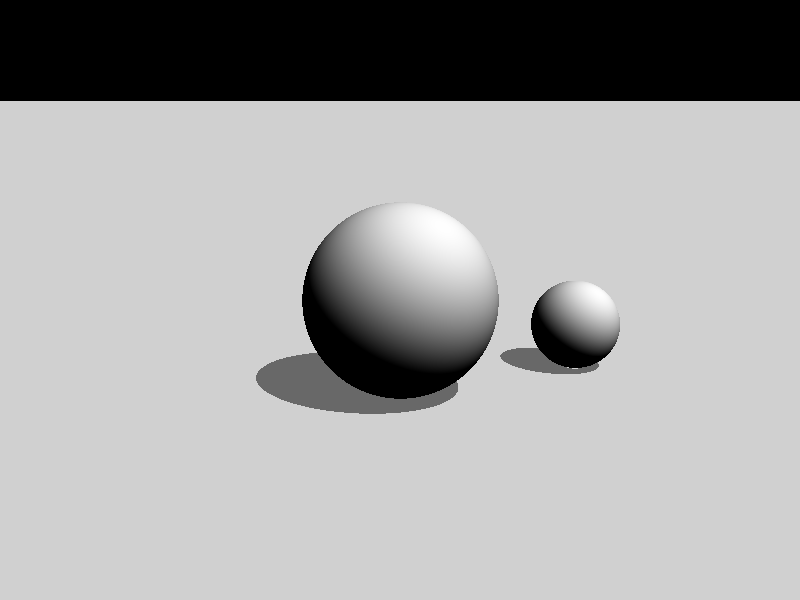
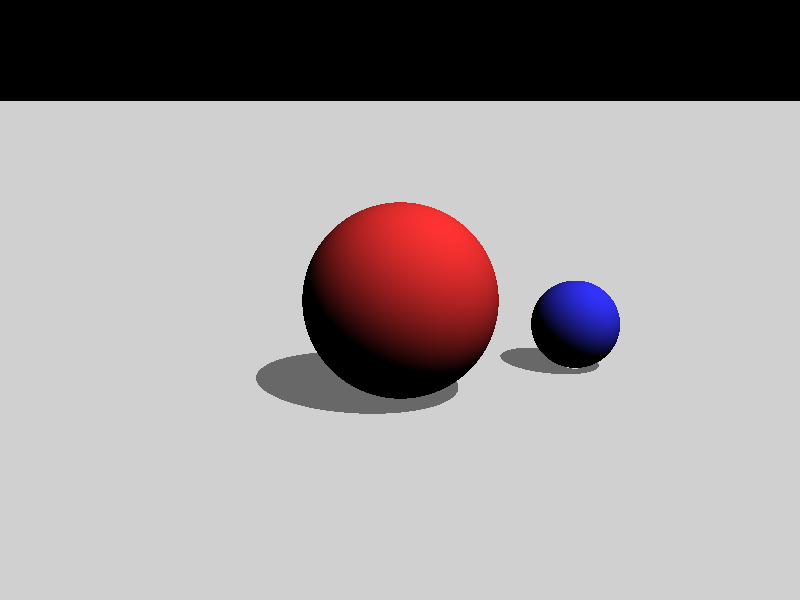
Add Material

Changed region(s): [[0.375, 0.33, 0.625, 0.63], [0.6562, 0.45, 0.7812, 0.6]]

diff --git a/src/scene.rs b/src/scene.rs
@@ -1,5 +1,6 @@
-use vector::{Vector3, Vector2};
 use consts;
+use vector::{Vector3, Vector2};
+use material::Material;
 
 #[derive(Debug)]
 pub struct Ray {
@@ -13,6 +14,7 @@ pub struct Intersection {
     pub position: Vector3,
     pub distance: f64,
     pub normal: Vector3,
+    pub material: Material,
 }
 
 impl Intersection {
@@ -22,6 +24,7 @@ impl Intersection {
             position: Vector3::zero(),
             distance: consts::INF,
             normal: Vector3::zero(),
+            material: Material::new(),
         }
     }
 }
@@ -33,6 +36,7 @@ pub trait Intersectable {
 pub struct Sphere {
     pub center: Vector3,
     pub radius: f64,
+    pub material: Material,
 }
 
 impl Intersectable for Sphere {
@@ -47,6 +51,7 @@ impl Intersectable for Sphere {
             intersection.position = ray.origin + ray.direction * t;
             intersection.distance = t;
             intersection.normal = (intersection.position - self.center).normalize();
+            intersection.material = self.material.clone();
         }
     }
 }
@@ -54,6 +59,7 @@ impl Intersectable for Sphere {
 pub struct Plane {
     pub center: Vector3,
     pub normal: Vector3,
+    pub material: Material,
 }
 
 impl Intersectable for Plane {
@@ -66,6 +72,7 @@ impl Intersectable for Plane {
             intersection.position = ray.origin + ray.direction * t;
             intersection.normal = self.normal;
             intersection.distance = t;
+            intersection.material = self.material.clone();
         }
     }
 }
@@ -155,24 +162,4 @@ impl Scene {
         }
         intersection
     }
-}
-
-#[allow(dead_code)]
-pub fn test() {
-    let ray = Ray{origin: Vector3{x: 0.0, y: 0.0, z: -3.0}, direction: Vector3{x: 0.0, y: 0.0, z: 1.0}};
-    let sphere = Sphere{center: Vector3{x: 0.0, y: 0.0, z: 0.0}, radius: 1.0};
-    let mut intersection = Intersection::new();
-    sphere.intersect(&ray, &mut intersection);
-    println!("{:?}", intersection);
-
-    let sphere = Sphere{center: Vector3{x: 0.0, y: 0.0, z: 0.0}, radius: 2.0};
-    sphere.intersect(&ray, &mut intersection);
-    println!("{:?}", intersection);
-
-    println!("{}", consts::EPS);
-
-    let v1 = Vector3{x: 1.0, y: 2.0, z: 3.0};
-    let v2 = Vector3{x: 2.0, y: 2.0, z: 3.0};
-    let v3 = v1 + v2;
-    println!("{:?}", v3);
 }

diff --git a/src/main.rs b/src/main.rs
@@ -3,13 +3,15 @@ extern crate image;
 use std::fs::File;
 use std::path::Path;
 
-mod vector;
 mod consts;
+mod vector;
 mod scene;
 mod renderer;
+mod material;
 
 use vector::Vector3;
 use scene::{Scene, CameraBuilder, Sphere, Plane};
+use material::{Material, SurfaceType};
 use renderer::{Renderer, DebugRenderer};
 
 #[allow(dead_code)]
@@ -43,9 +45,21 @@ fn main() {
 
     let scene = Scene {
         elements: vec![
-            Box::new(Sphere{ center: Vector3::new(0.0, 1.0, 0.0), radius: 1.0 }),
-            Box::new(Sphere{ center: Vector3::new(2.0, 0.5, -1.0), radius: 0.5 }),
-            Box::new(Plane{ center: Vector3::new(0.0, 0.0, 0.0), normal: Vector3::new(0.0, 1.0, 0.0) }),
+            Box::new(Sphere{ center: Vector3::new(0.0, 1.0, 0.0), radius: 1.0, material: Material {
+                albedo: Vector3::new(1.0, 0.2, 0.2),
+                emission: Vector3::zero(),
+                surface: SurfaceType::Diffuse {},
+            }}),
+            Box::new(Sphere{ center: Vector3::new(2.0, 0.5, -1.0), radius: 0.5, material: Material {
+                albedo: Vector3::new(0.2, 0.2, 1.0),
+                emission: Vector3::zero(),
+                surface: SurfaceType::Diffuse {},
+            }}),
+            Box::new(Plane{ center: Vector3::new(0.0, 0.0, 0.0), normal: Vector3::new(0.0, 1.0, 0.0), material: Material {
+                albedo: Vector3::new(1.0, 1.0, 1.0),
+                emission: Vector3::zero(),
+                surface: SurfaceType::Diffuse {},
+            }}),
         ],
     };
 

diff --git a/src/material.rs b/src/material.rs
@@ -1,0 +1,27 @@
+use vector::Vector3;
+
+#[derive(Clone, Debug)]
+pub enum SurfaceType {
+    Diffuse,
+    Specular,
+    Reflection { refractiveIndex: f64 },
+    GGX { roughness: f64 },
+    GGXReflection { roughness: f64, refractiveIndex: f64 },
+}
+
+#[derive(Clone, Debug)]
+pub struct Material {
+    pub albedo: Vector3,
+    pub emission: Vector3,
+    pub surface: SurfaceType,
+}
+
+impl Material {
+    pub fn new() -> Material {
+        Material {
+            albedo: Vector3::from_one(1.0),
+            emission: Vector3::zero(),
+            surface: SurfaceType::Diffuse {}
+        }
+    }
+}

diff --git a/src/renderer.rs b/src/renderer.rs
@@ -37,7 +37,7 @@ impl Renderer for DebugRenderer {
            };
            let shadow_intersection = scene.intersect(&shadow_ray);
            let shadow = if shadow_intersection.hit { 0.5 } else { 1.0 };
-           Vector3::new(1.0, 1.0, 1.0) * diffuse * shadow
+           intersection.material.albedo * diffuse * shadow
        } else {
            Vector3::new(0.0, 0.0, 0.0)
        }
